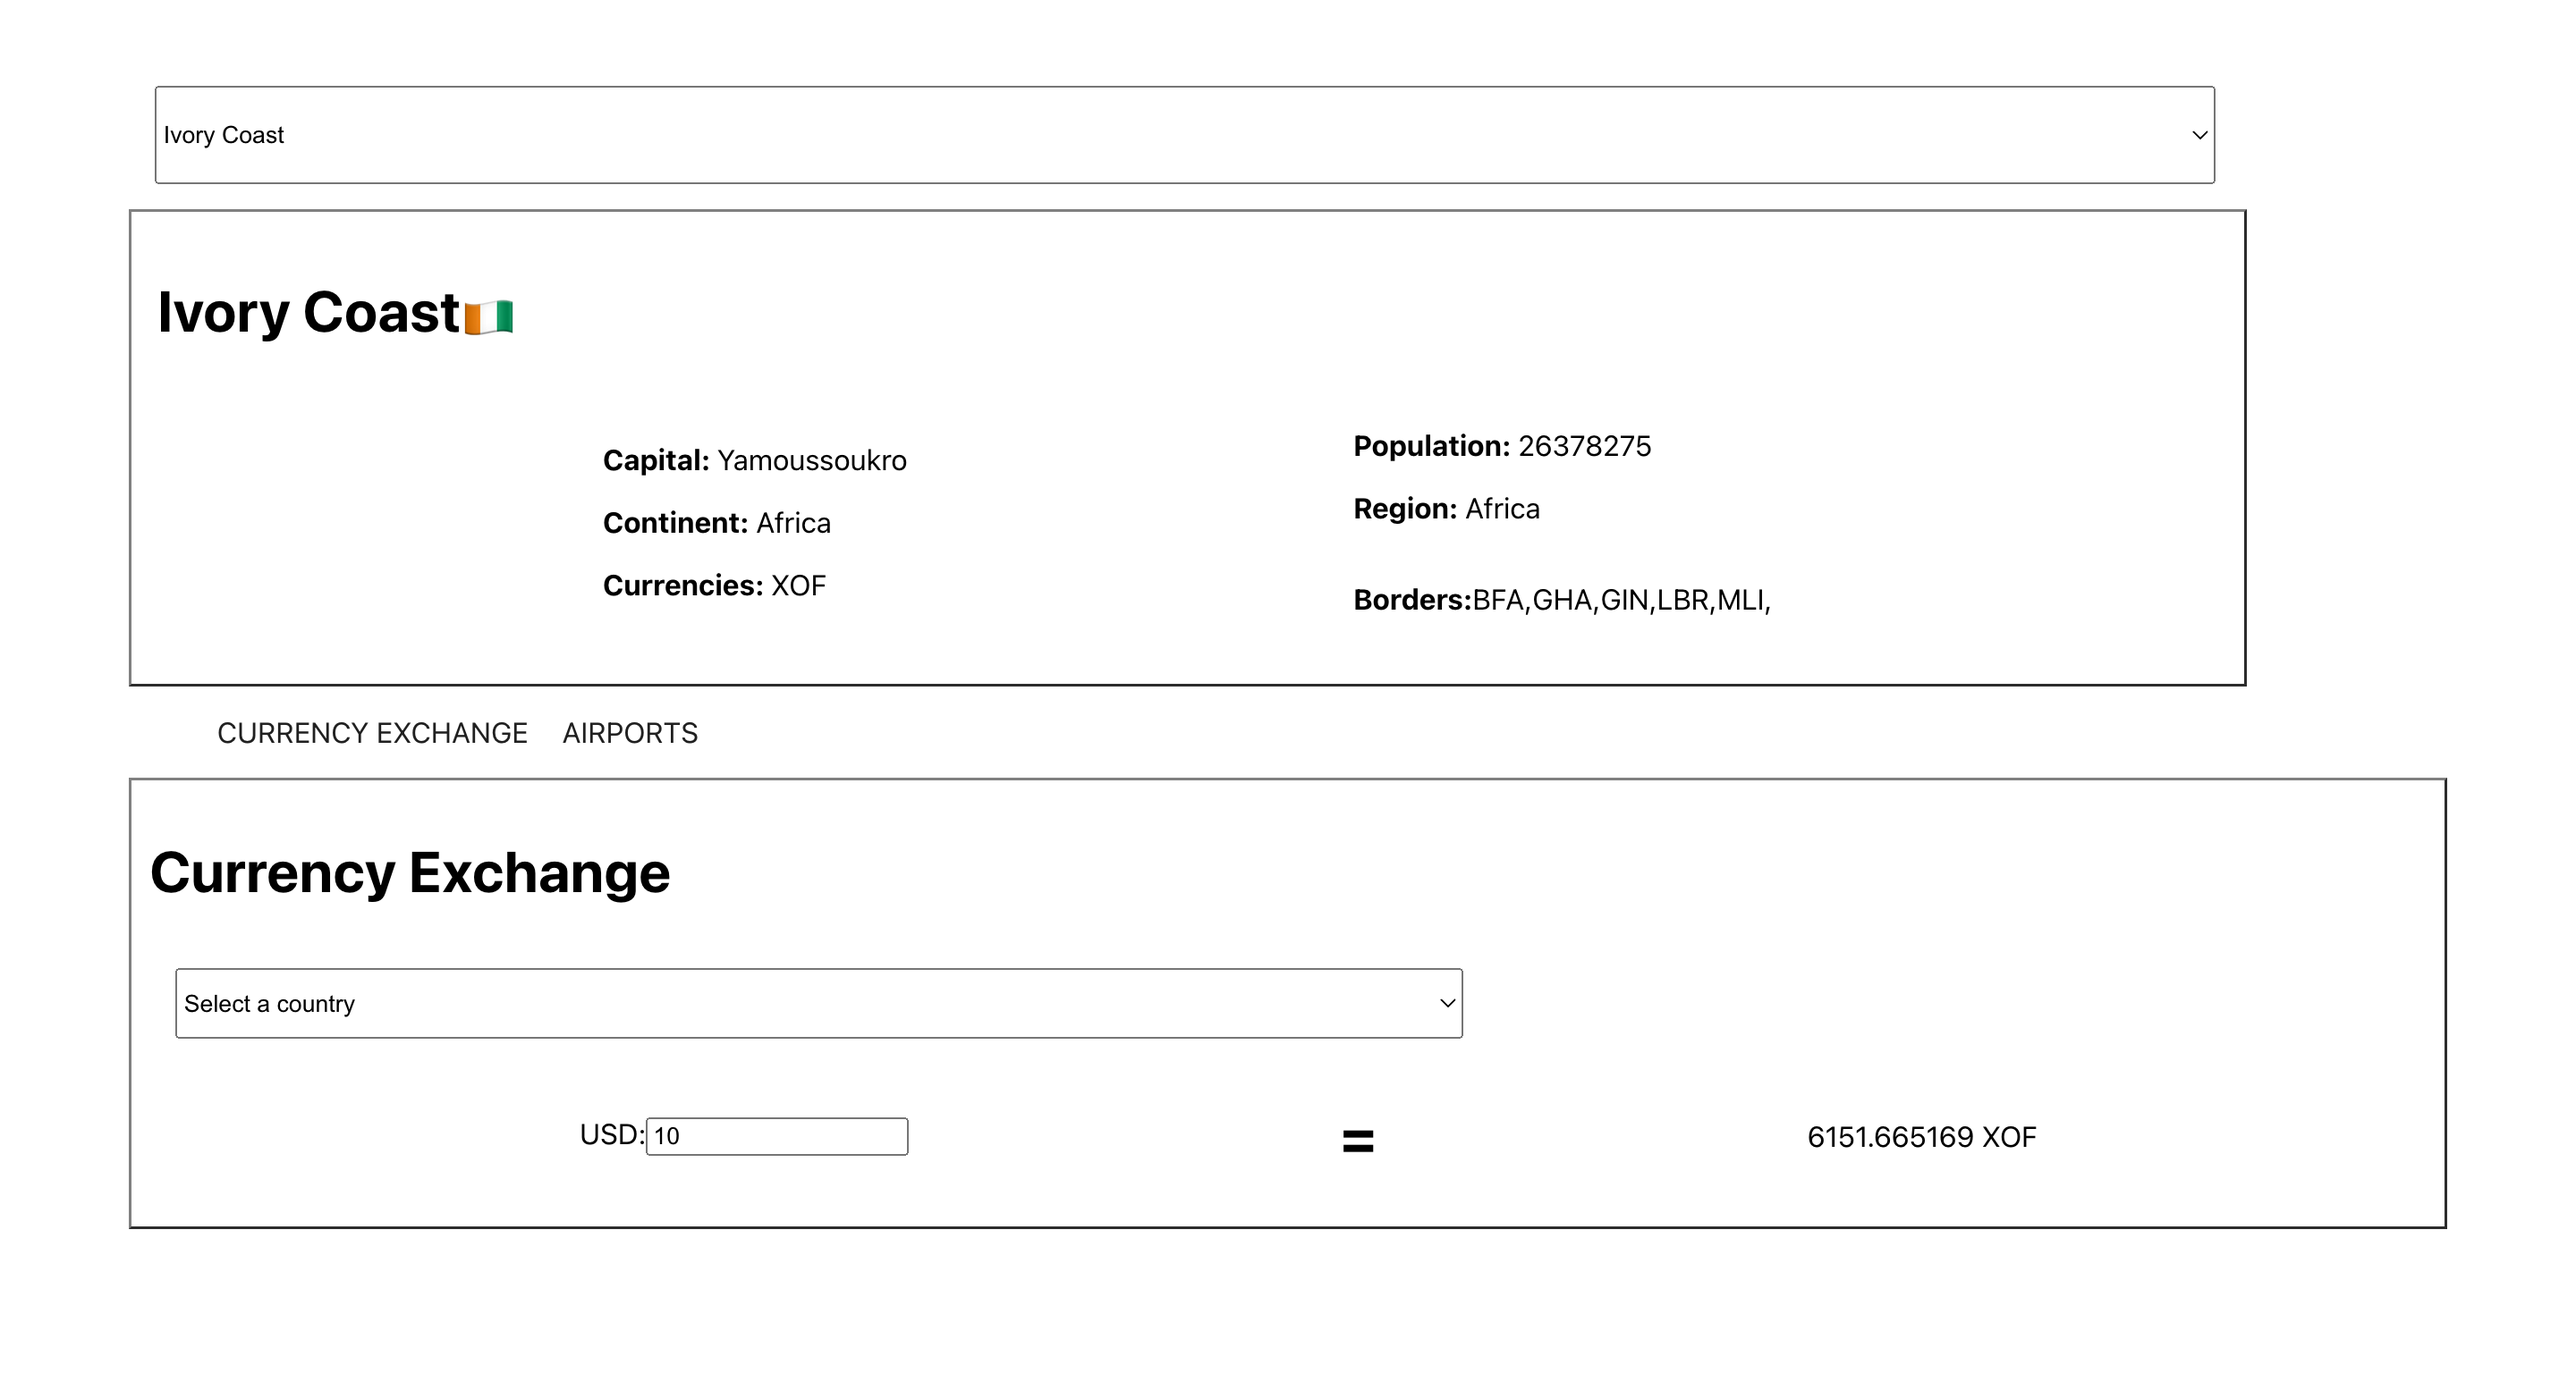
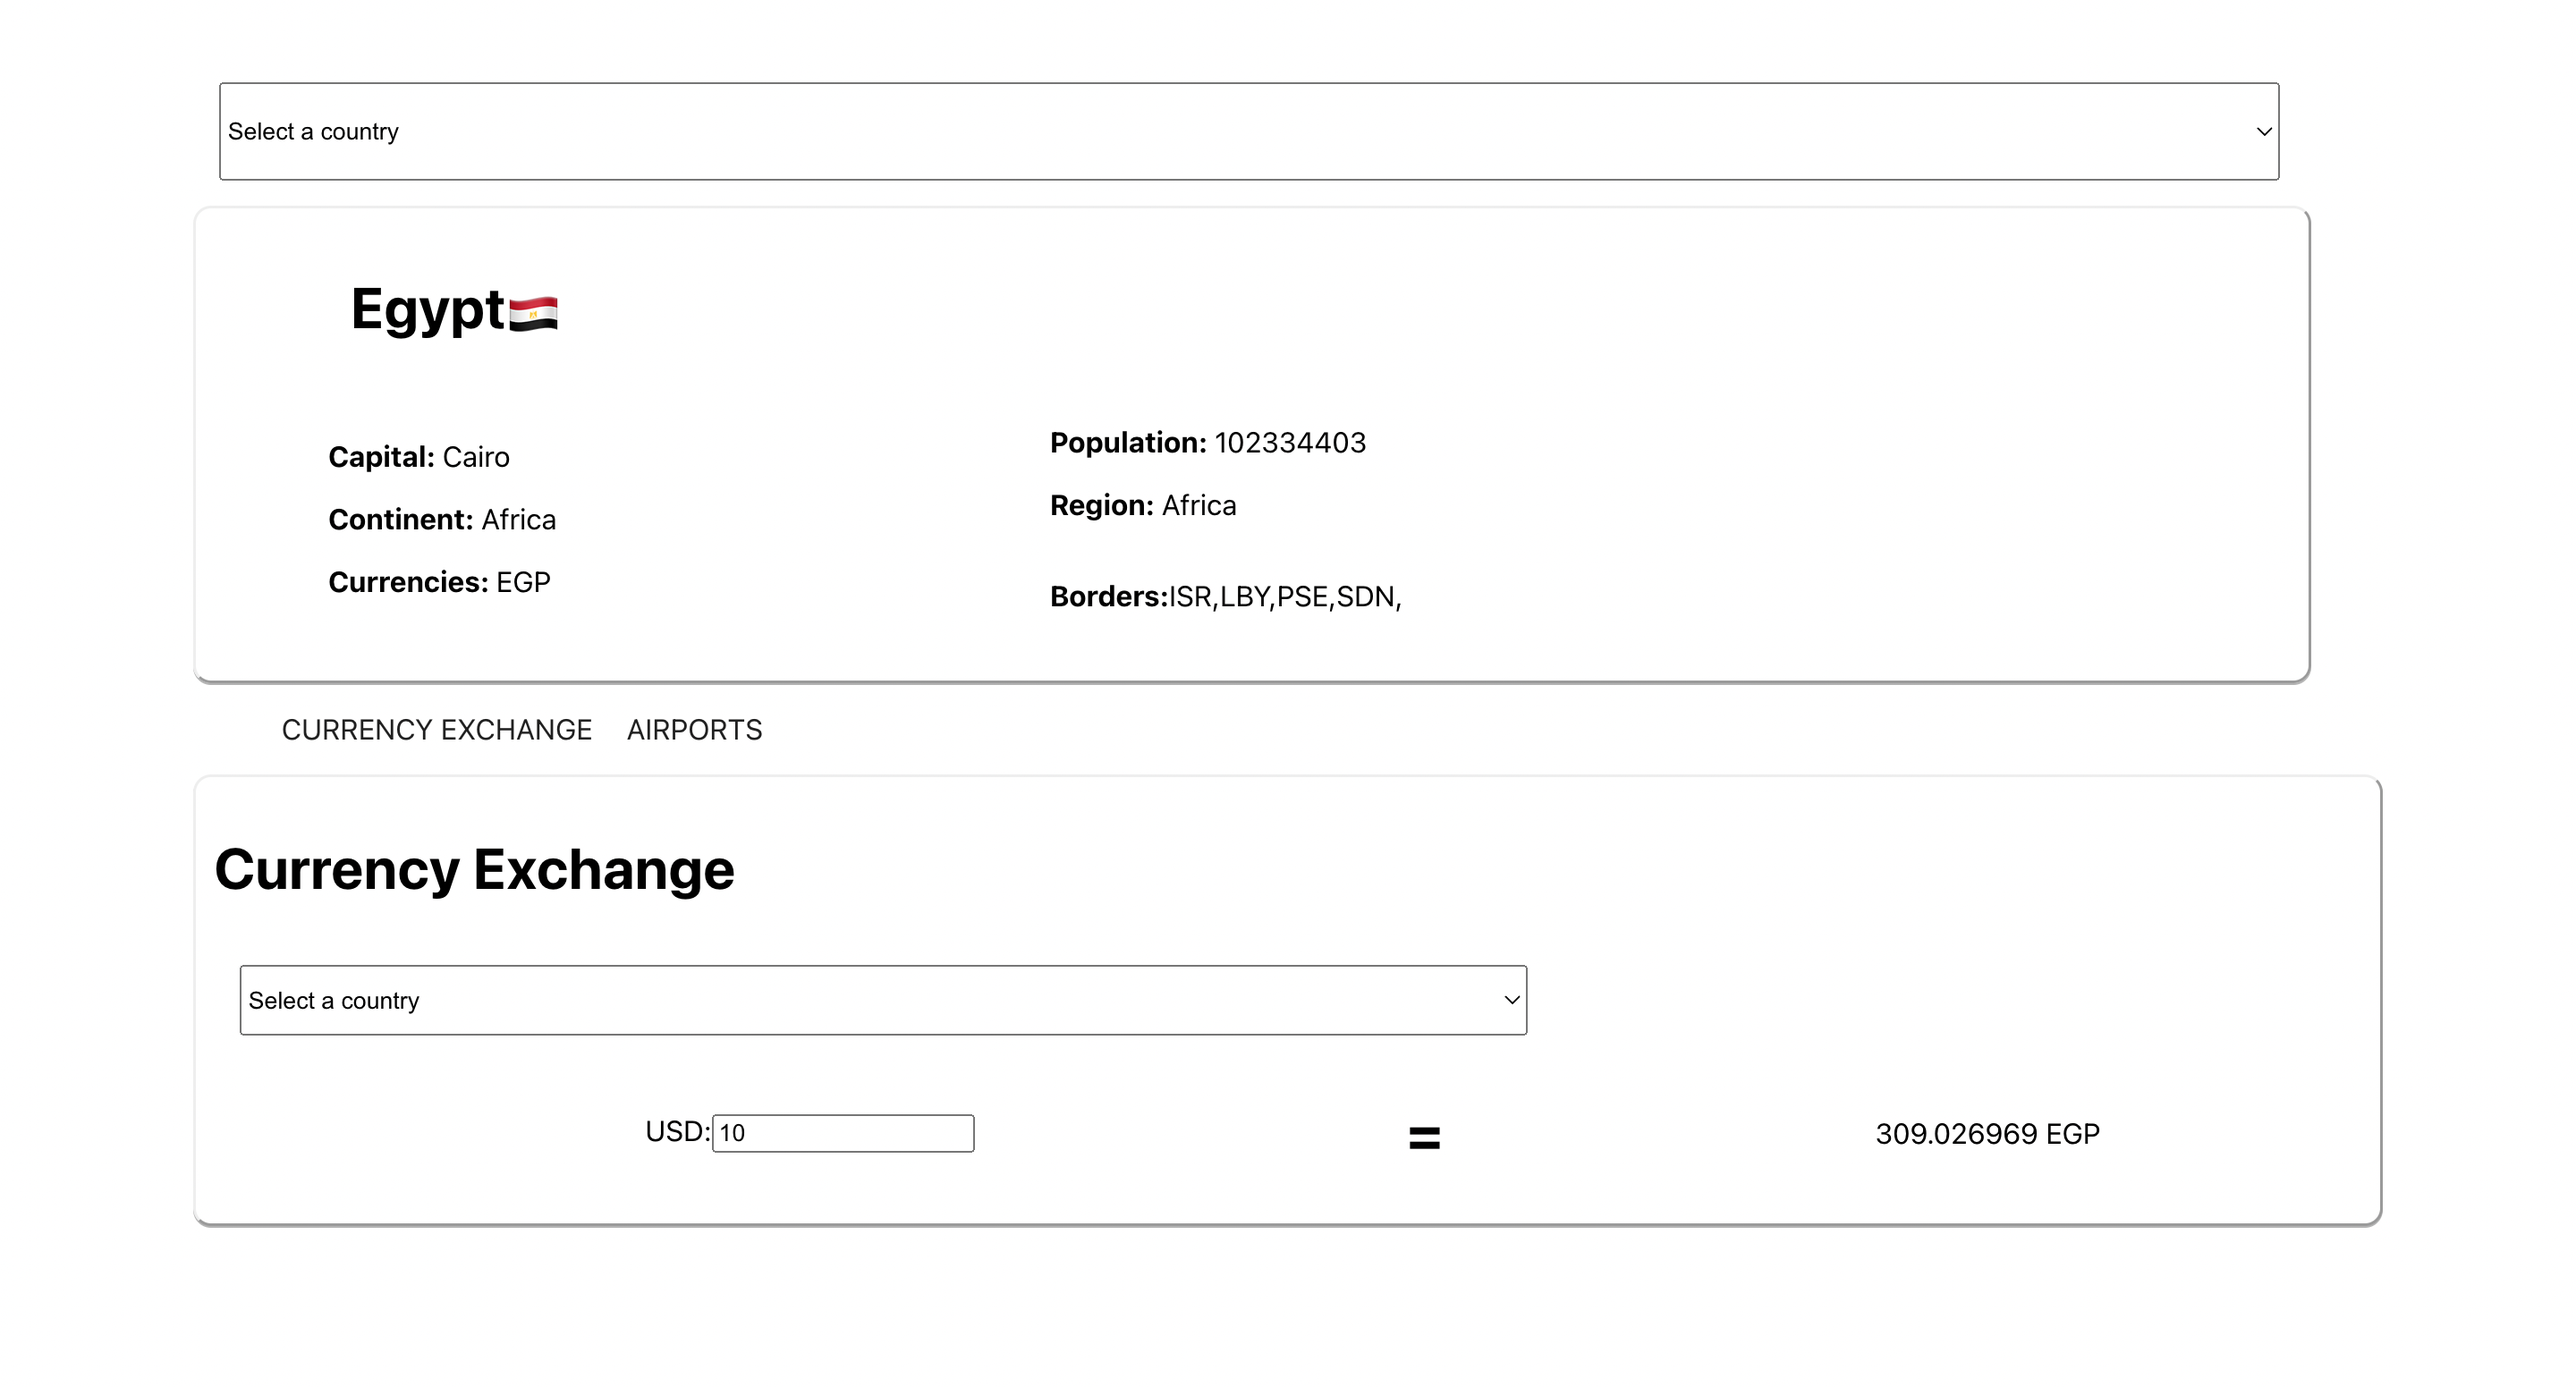
feat: styles

diff --git a/country-app/src/App.css b/country-app/src/App.css
@@ -1,4 +1,3 @@
-
 ul {
   list-style-type: none;
   display:flex;
@@ -8,7 +7,6 @@ ul {
 
 }
 
-/* Change the link color to #111 (black) on hover */
 li:hover {
   background-color: azure;
   cursor: pointer;
@@ -20,13 +18,14 @@ a{
 #country_info{
   border-style: solid;
   height: 30vh;
-  border-color: grey;
+  border-radius: 10px;
+  box-shadow: 0px 1px #b3b3b3;
   border-style: outset;
   width: 80vw;
   padding: 1vw;
 }
 #container{
-  width: 90vw;
+  width: 85vw;
   height: 40vh;
   margin-top: 2vh;
   padding: 3vh;
@@ -54,15 +53,17 @@ a{
 }
 #currency-container{
   background-color: white;
-  border-color: grey;
   display: flex;
+  border-radius: 10px;
+  box-shadow: 0px 1px #b3b3b3;
   flex-direction: column;
   border-style: outset;
   padding: 10px;
 }
 #airports-container{
   background-color: white;
-  border-color: grey;
+  border-radius: 10px;
+  box-shadow: 0px 1px #b3b3b3;
   border-style: outset;
   padding: 10px;
 }
@@ -94,4 +95,15 @@ a{
 }
 #flagid{
   font-size: 1.9rem;
+}
+#country-container{
+  display: flex;
+  flex-direction: column;
+  align-items: center;
+  justify-content: flex-end;
+  width: 50vw;
+}
+#searchfield{
+  width: 20vw;
+  padding: 0.5vw;
 }

diff --git a/country-app/src/Home.js b/country-app/src/Home.js
@@ -1,20 +1,15 @@
 import { useEffect, useState } from 'react';
 import Navigation from './Navigation';
 import Country from "./Country";
-import { useLocation, useNavigate } from "react-router-dom";
+import { useNavigate } from "react-router-dom";
 import { Outlet } from 'react-router-dom';
 import * as React from 'react';
-import { Link } from 'react-router-dom';
 
 export default function Home(props){
     const [countries, setCountres] = useState(false);
     const [selectedCountry, setSelectedCountry] = useState(false);
-    const [isrouted, setisRouted] =useState(false);
     const navigate = useNavigate();
     const [error, setError] = useState('')
-    const location = useLocation();
-    const pathSegments = location.pathname.split('/');
-    const baseRoute = `/${pathSegments[1]}`;
 
 
   

diff --git a/country-app/src/SearchField.js b/country-app/src/SearchField.js
@@ -22,6 +22,7 @@ function SearchField({ onSearch }) {
 
   return (
     <input
+      id='searchfield'
       type="text"
       placeholder="Search..."
       value={query}
